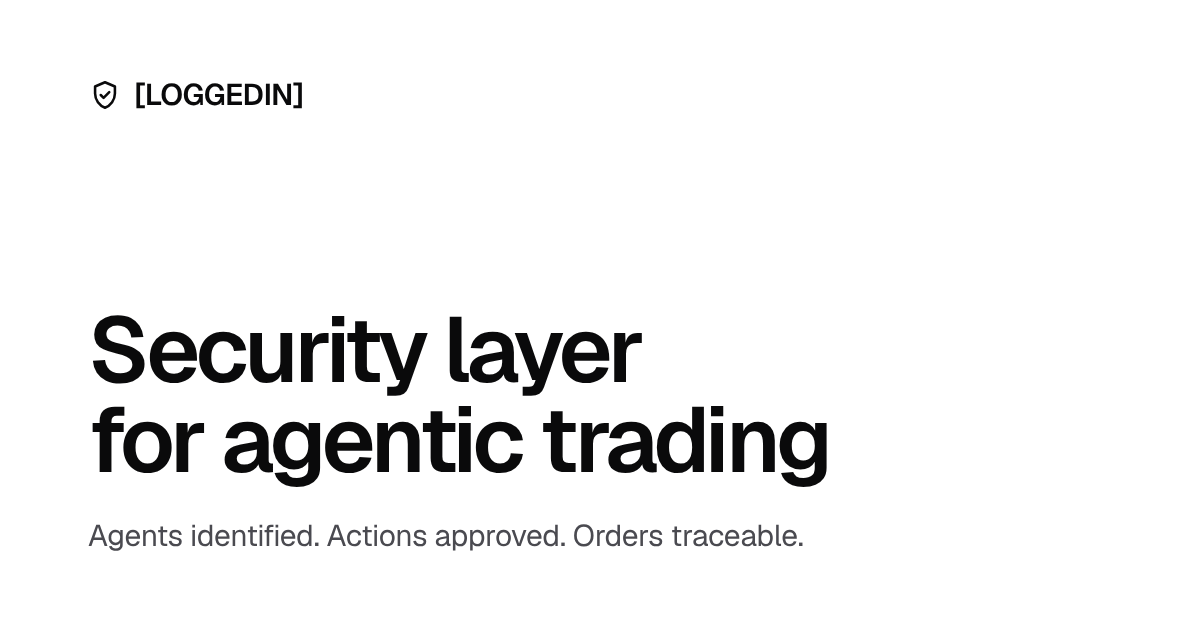
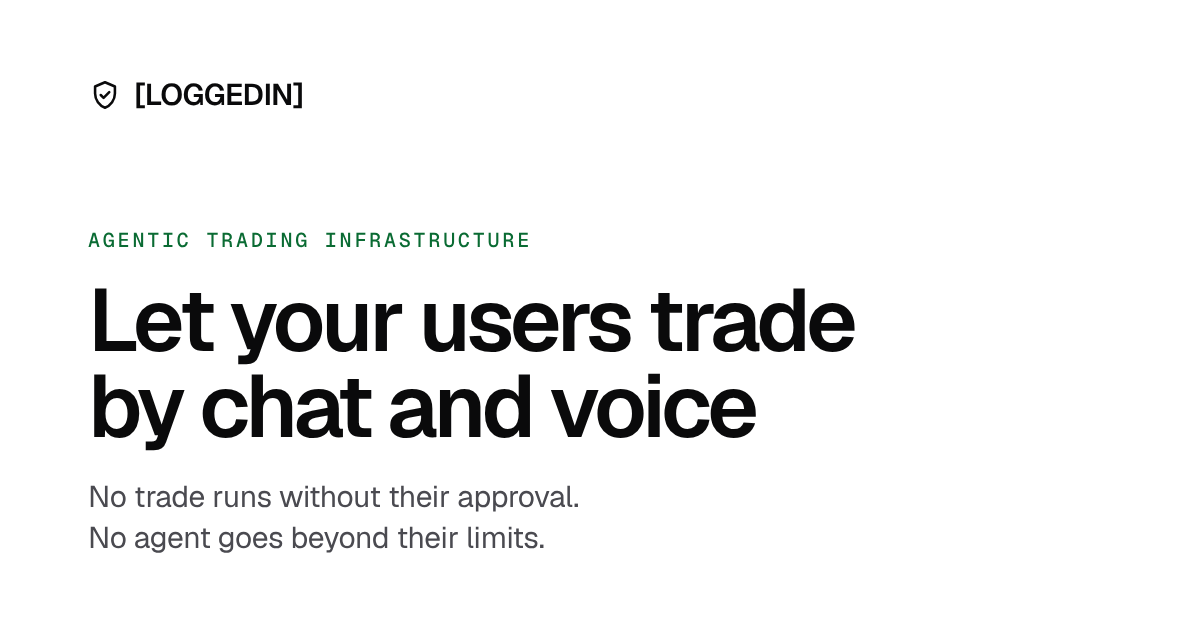
Update share image and README to current positioning
Claude-Session: https://claude.ai/code/session_018Lm8GoFZFcNPrYYkaJQycV

Changed region(s): [[0.0617, 0.4524, 0.7092, 0.8746], [0.0617, 0.3619, 0.4625, 0.3921]]

diff --git a/README.md b/README.md
@@ -1,6 +1,6 @@
 # [LOGGEDIN]: landing page
 
-Landing page for "[LOGGEDIN]: security layer for agentic trading".
+Landing page for "[LOGGEDIN]: agentic trading infrastructure".
 Built with Next.js (App Router), TypeScript, Tailwind CSS and Framer Motion. The page is
 prerendered as static HTML at build time, so it's fast and cheap to host on Vercel.
 
